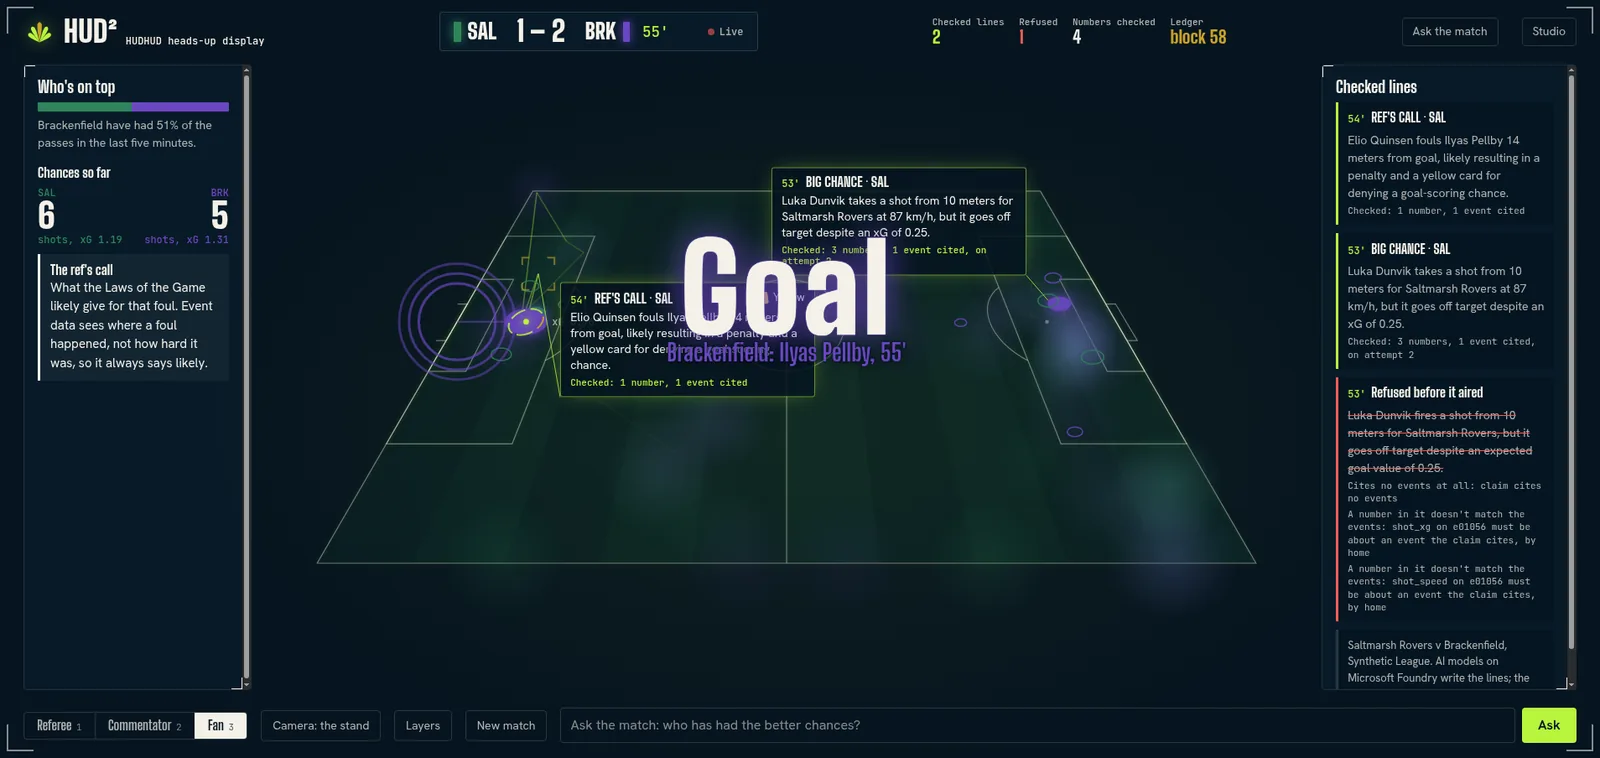
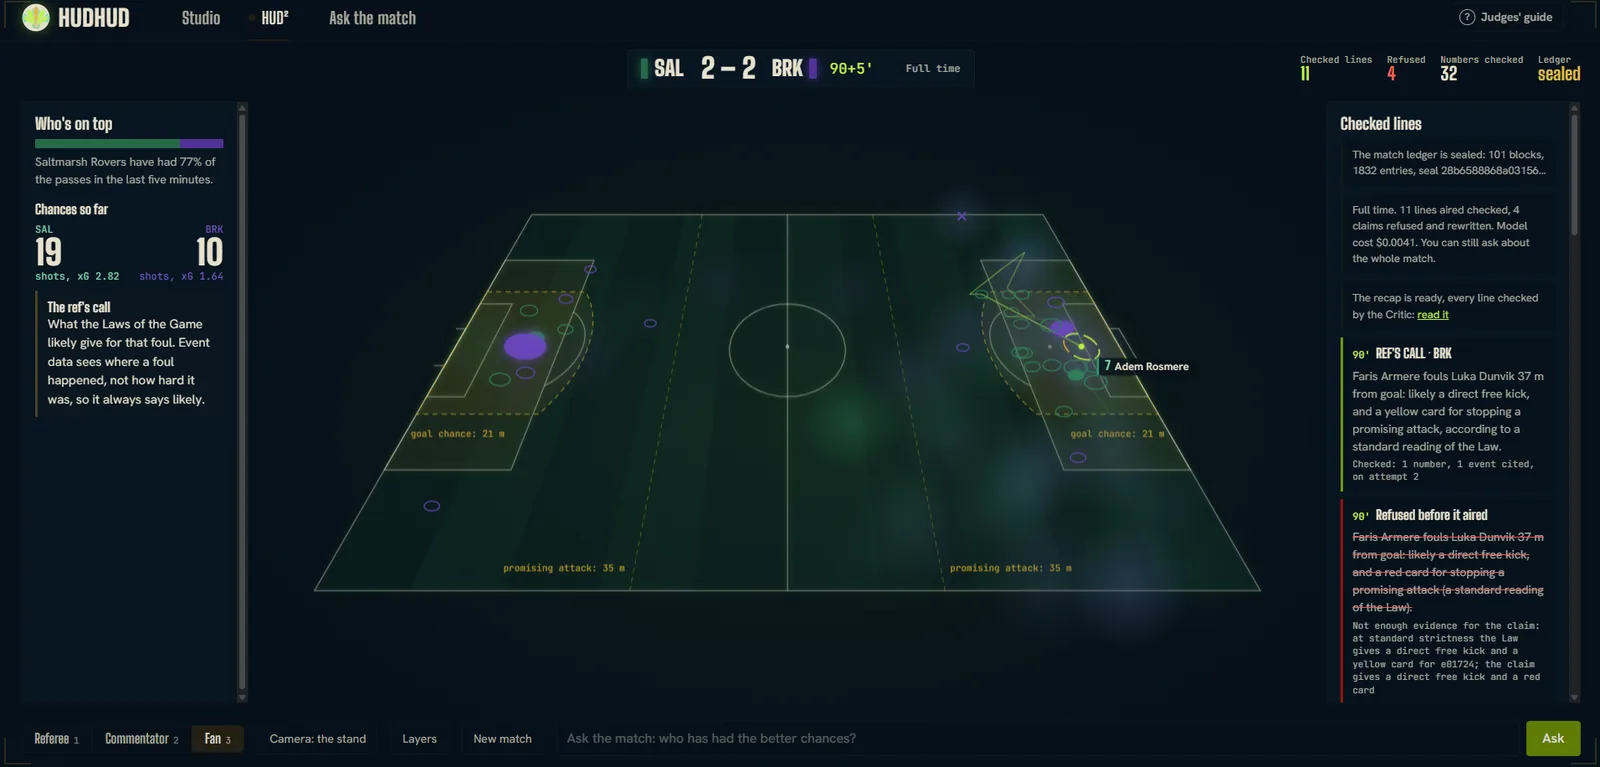
feat(studio): the match ledger is its own step in the judges' guide — and every screen retaken
The ledger shows in all three rooms (under the studio's score, in HUD²'s meter, beside every
answer in Ask the match), but nothing sent anyone to it, and its best moment, the tamper test,
waits behind a button nobody was told to press. The guide now has four steps, the ledger second:
at full time, Verify in this browser, then Try changing one line, and the browser finds the block.
The studio's opening slate names the ledger beside the Critic.

- Screens retaken on the live studio with the rooms' bar and mark v3 (the last set was from
  October 20, before both): the studio at 59', the ledger verified at full time, every HUD² lens,
  the view from above, and Ask the match; a new one shows HUD²'s layers. The phone shot stays.
- Every alt text rewritten to what its picture now shows, at its real size
- The guide's panel scrolls on a short screen (HUD² doesn't scroll the page)

diff --git a/site/index.html b/site/index.html
@@ -1422,7 +1422,7 @@
           <button type="button" data-demo-lens="fan" aria-pressed="false">The fan</button>
         </div>
         <div class="demo-frame demo-wide" data-demo-frame>
-          <img src="assets/screens/hud-commentator.webp" alt="HUD² through the commentator's lens: the pitch in perspective, two checked lines pinned where they happened, a refused draft struck in red, the last five minutes in numbers." loading="lazy" width="1600" height="758">
+          <img src="assets/screens/hud-commentator.webp" alt="HUD² through the commentator's lens at full time: the pitch in perspective with every shot and the ball's last path, the last five minutes in numbers, and the checked lines: a referee's call that aired on its second attempt, the draft before it struck in red because the Law gives a yellow card, not a red." loading="lazy" width="1600" height="771">
           <button class="demo-start" type="button" data-demo-start>Play the recorded match</button>
         </div>
         <p class="demo-note">A match recorded from the live studio on October 20, replayed by the studio's own code. The lines, the refusals and the ledger are real; the studio itself is open to the judges only.</p>
@@ -1436,9 +1436,10 @@
 
       <h2 class="section-title" data-reveal>Every lens, as it looks</h2>
       <div class="shots" data-reveal>
-        <figure><img src="assets/screens/hud-referee.webp" alt="The referee's lens at 54': the penalty's likely call pinned at the foul with a yellow card, the goal-chance zones shaded at both ends." loading="lazy" width="1600" height="758"><figcaption>The referee, at the penalty: the call pinned at the foul, 14 m out, inside the area.</figcaption></figure>
-        <figure><img src="assets/screens/hud-fan.webp" alt="The fan's lens: who's on top, the chances so far, and a plain-words explainer for the moment that just happened." loading="lazy" width="1600" height="758"><figcaption>The fan: who's on top, and plain words for what just happened.</figcaption></figure>
-        <figure><img src="assets/screens/hud-above.webp" alt="The commentator's lens from above, like a tactics board, with the goals pinned at both ends." loading="lazy" width="1600" height="758"><figcaption>From above, like a tactics board.</figcaption></figure>
+        <figure><img src="assets/screens/hud-referee.webp" alt="The referee's lens at full time: both yellow cards in the discipline panel, the goal-chance and promising-attack zones shaded at both ends, and the 90th-minute call checked against the Law, a red card refused." loading="lazy" width="1600" height="769"><figcaption>The referee: every card, the zones a call is read against, and a red card the Law didn't give, refused.</figcaption></figure>
+        <figure><img src="assets/screens/hud-fan.webp" alt="The fan's lens at full time: who's on top, the chances so far, 19 shots to 10, and plain words for what a referee's call means." loading="lazy" width="1600" height="767"><figcaption>The fan: who's on top, and plain words for what just happened.</figcaption></figure>
+        <figure><img src="assets/screens/hud-above.webp" alt="The commentator's lens from above, like a tactics board: every shot at both ends, sized by chance quality, and the ball's last path." loading="lazy" width="1600" height="771"><figcaption>From above, like a tactics board.</figcaption></figure>
+        <figure><img src="assets/screens/hud-layers.webp" alt="HUD²'s layers, open over the commentator's lens: twelve switches, from the ball and recent passes to pressing, the referee's zones and the Critic's refusals, each kept for next time." loading="lazy" width="1600" height="769"><figcaption>Layers: each viewer's own choice, kept for next time.</figcaption></figure>
         <figure class="phone"><img src="assets/screens/hud-phone.webp" alt="HUD² on a phone: the pitch, one compact pin, and the checked lines below." loading="lazy" width="390" height="844"><figcaption>On a phone.</figcaption></figure>
       </div>
 
@@ -1462,7 +1463,7 @@
 
       <div class="demo" data-demo="ask" data-reveal>
         <div class="demo-frame demo-wide" data-demo-frame>
-          <img src="assets/screens/ask.webp" alt="Ask the match: a conversation with the match, each answer checked by the Critic, sealed in a block and verified in the browser; a question about odds gets fixed words that steer away from betting." loading="lazy" width="1600" height="758">
+          <img src="assets/screens/ask.webp" alt="Ask the match at full time: a question about one player answered with eight numbers, each matched to the events by the Critic, the facts code counted listed with their event IDs, and the answer sealed in block 101 and verified in the browser; a second answer, about the biggest chance, below." loading="lazy" width="1600" height="766">
           <button class="demo-start" type="button" data-demo-start>Ask the recorded match</button>
         </div>
         <p class="demo-note">The recorded match answers the ten questions asked of it in the live studio, with their real answers and proofs; tap one, then verify it. The live studio answers anything.</p>
@@ -1552,12 +1553,12 @@
         <a class="button button-quiet" href="demo/ask.html?autostart=1" target="_blank" rel="noopener">Ask the recorded match</a>
       </div>
       <div class="shots shots-all" data-reveal>
-        <figure><img src="assets/screens/studio-live.webp" alt="The studio, live at 56': the score, the shot map, the match ledger growing a block a minute, checked lines on air, Ask the match, and the Critic's desk with a refused claim." loading="lazy" width="1600" height="758"><figcaption>The studio, live: lines on air with their receipts, the Critic's desk, the ledger growing.</figcaption></figure>
-        <figure><img src="assets/screens/studio-ledger.webp" alt="The match ledger at full time: 111 blocks in a chain, all green, verified in the browser." loading="lazy" width="1600" height="315"><figcaption>At full time, the ledger verified in the browser: every block green.</figcaption></figure>
-        <figure><img src="assets/screens/hud-referee.webp" alt="HUD² through the referee's lens, at the penalty." loading="lazy" width="1600" height="758"><figcaption>HUD², the referee's lens.</figcaption></figure>
-        <figure><img src="assets/screens/hud-commentator.webp" alt="HUD² through the commentator's lens, with a refusal pinned where it was aimed." loading="lazy" width="1600" height="758"><figcaption>HUD², the commentator's lens.</figcaption></figure>
-        <figure><img src="assets/screens/hud-fan.webp" alt="HUD² through the fan's lens." loading="lazy" width="1600" height="758"><figcaption>HUD², the fan's lens.</figcaption></figure>
-        <figure><img src="assets/screens/ask.webp" alt="Ask the match, a conversation with the match." loading="lazy" width="1600" height="758"><figcaption>Ask the match: each answer checked, sealed and verified.</figcaption></figure>
+        <figure><img src="assets/screens/studio-live.webp" alt="The studio, live at 59': the score, the shot map, the match ledger growing a block a minute, checked lines on air with their players and event IDs, one aired on its second attempt, and Ask the match with questions to try." loading="lazy" width="1600" height="774"><figcaption>The studio, live: lines on air with their receipts, the ledger growing a block a minute.</figcaption></figure>
+        <figure><img src="assets/screens/studio-ledger.webp" alt="The match ledger at full time: 101 blocks in a chain, all green, verified in the browser, every hash recomputed and nothing changed." loading="lazy" width="1600" height="391"><figcaption>At full time, the ledger verified in the browser: every block green.</figcaption></figure>
+        <figure><img src="assets/screens/hud-referee.webp" alt="HUD² through the referee's lens, at full time." loading="lazy" width="1600" height="769"><figcaption>HUD², the referee's lens.</figcaption></figure>
+        <figure><img src="assets/screens/hud-commentator.webp" alt="HUD² through the commentator's lens, a refused call struck in red beside the one that aired." loading="lazy" width="1600" height="771"><figcaption>HUD², the commentator's lens.</figcaption></figure>
+        <figure><img src="assets/screens/hud-fan.webp" alt="HUD² through the fan's lens." loading="lazy" width="1600" height="767"><figcaption>HUD², the fan's lens.</figcaption></figure>
+        <figure><img src="assets/screens/ask.webp" alt="Ask the match, a conversation with the match." loading="lazy" width="1600" height="766"><figcaption>Ask the match: each answer checked, sealed and verified.</figcaption></figure>
       </div>
     </section>
 
@@ -1571,7 +1572,7 @@
 
       <div class="demo" data-demo="broadcast" data-reveal>
         <div class="demo-frame demo-wide" data-demo-frame>
-          <img src="assets/screens/studio-live.webp" alt="The program feed: a broadcast frame with the score bug and a checked line as a lower third, driven by the cue contract." loading="lazy" width="1600" height="758">
+          <img src="assets/screens/studio-live.webp" alt="The live studio at 59', whose checked lines drive the program feed." loading="lazy" width="1600" height="774">
           <button class="demo-start" type="button" data-demo-start>Play the program feed</button>
         </div>
         <p class="demo-note">A match recorded from the live studio, replayed by the studio's own stream. Play the take, or step line by line with Next line — the panel on the right is the JSON your system receives for every cue, live.</p>

diff --git a/site/demo/studio.html b/site/demo/studio.html
@@ -86,12 +86,13 @@
     <details class="topnav-guide" data-guide>
       <summary>Judges' guide</summary>
       <div class="topnav-panel">
-        <h2>Three rooms, one match</h2>
+        <h2>What to try first</h2>
         <p>The football is synthetic: invented clubs and players. Every line you see was checked by the Critic first.</p>
         <ol>
           <li><a href="studio.html">Studio</a>Press <b>Kick off</b>. Checked lines air in the feed with their evidence; claims the Critic refused land on its desk as red cards. Then take the narrator off air and watch the broadcast carry on.</li>
+          <li><a href="studio.html">The match ledger</a>In the studio, under the score, every event, line and refusal is sealed minute by minute into blocks chained by hashes. At full time press <b>Verify in this browser</b>, then <b>Try changing one line</b>: the browser finds the one block you changed.</li>
           <li><a href="hud.html">HUD²</a>Choose whose eyes: the referee's, the commentator's or the fan's. Every checked line is pinned where it happened. Keys 1 to 3 switch the lens, V the camera.</li>
-          <li><a href="ask.html">Ask the match</a>Open a match and ask who had the better chances. Code counts the numbers, the Critic checks the answer, and the ledger verifies in your browser.</li>
+          <li><a href="ask.html">Ask the match</a>Open a match and ask who had the better chances. Code counts the numbers, the Critic checks the answer, and each answer is sealed in the ledger with a proof your browser checks.</li>
         </ol>
         <p class="topnav-more"><a href="https://hudhud.com.pk/">The showcase site</a><a href="https://youtu.be/a9_2oL63PBw">The 101-second video</a></p>
       </div>
@@ -196,7 +197,7 @@
       <div class="slate-copy">
         <h1 id="slate-title" class="slate-word" data-product></h1>
         <p class="slate-promise">Every call comes with its evidence.</p>
-        <p class="slate-how">Five AI agents commentate a synthetic match. Before a line airs, the Critic recomputes every number from the match events and refuses what it can't prove. Pick a match and kick off.</p>
+        <p class="slate-how">Five AI agents commentate a synthetic match. Before a line airs, the Critic recomputes every number from the match events and refuses what it can't prove. Every line is then sealed into the match ledger, which your browser can verify. Pick a match and kick off.</p>
         <details class="slate-limits">
           <summary>What this data can't tell you</summary>
           <ul>

diff --git a/apps/api/src/court/studio/index.html b/apps/api/src/court/studio/index.html
@@ -86,12 +86,13 @@
     <details class="topnav-guide" data-guide>
       <summary>Judges' guide</summary>
       <div class="topnav-panel">
-        <h2>Three rooms, one match</h2>
+        <h2>What to try first</h2>
         <p>The football is synthetic: invented clubs and players. Every line you see was checked by the Critic first.</p>
         <ol>
           <li><a href="/">Studio</a>Press <b>Kick off</b>. Checked lines air in the feed with their evidence; claims the Critic refused land on its desk as red cards. Then take the narrator off air and watch the broadcast carry on.</li>
+          <li><a href="/">The match ledger</a>In the studio, under the score, every event, line and refusal is sealed minute by minute into blocks chained by hashes. At full time press <b>Verify in this browser</b>, then <b>Try changing one line</b>: the browser finds the one block you changed.</li>
           <li><a href="/hud">HUD²</a>Choose whose eyes: the referee's, the commentator's or the fan's. Every checked line is pinned where it happened. Keys 1 to 3 switch the lens, V the camera.</li>
-          <li><a href="/ask">Ask the match</a>Open a match and ask who had the better chances. Code counts the numbers, the Critic checks the answer, and the ledger verifies in your browser.</li>
+          <li><a href="/ask">Ask the match</a>Open a match and ask who had the better chances. Code counts the numbers, the Critic checks the answer, and each answer is sealed in the ledger with a proof your browser checks.</li>
         </ol>
         <p class="topnav-more"><a href="https://hudhud.com.pk/">The showcase site</a><a href="https://youtu.be/a9_2oL63PBw">The 101-second video</a></p>
       </div>
@@ -196,7 +197,7 @@
       <div class="slate-copy">
         <h1 id="slate-title" class="slate-word" data-product></h1>
         <p class="slate-promise">Every call comes with its evidence.</p>
-        <p class="slate-how">Five AI agents commentate a synthetic match. Before a line airs, the Critic recomputes every number from the match events and refuses what it can't prove. Pick a match and kick off.</p>
+        <p class="slate-how">Five AI agents commentate a synthetic match. Before a line airs, the Critic recomputes every number from the match events and refuses what it can't prove. Every line is then sealed into the match ledger, which your browser can verify. Pick a match and kick off.</p>
         <details class="slate-limits">
           <summary>What this data can't tell you</summary>
           <ul>

diff --git a/site/demo/ask.html b/site/demo/ask.html
@@ -86,12 +86,13 @@
     <details class="topnav-guide" data-guide>
       <summary>Judges' guide</summary>
       <div class="topnav-panel">
-        <h2>Three rooms, one match</h2>
+        <h2>What to try first</h2>
         <p>The football is synthetic: invented clubs and players. Every line you see was checked by the Critic first.</p>
         <ol>
           <li><a href="studio.html">Studio</a>Press <b>Kick off</b>. Checked lines air in the feed with their evidence; claims the Critic refused land on its desk as red cards. Then take the narrator off air and watch the broadcast carry on.</li>
+          <li><a href="studio.html">The match ledger</a>In the studio, under the score, every event, line and refusal is sealed minute by minute into blocks chained by hashes. At full time press <b>Verify in this browser</b>, then <b>Try changing one line</b>: the browser finds the one block you changed.</li>
           <li><a href="hud.html">HUD²</a>Choose whose eyes: the referee's, the commentator's or the fan's. Every checked line is pinned where it happened. Keys 1 to 3 switch the lens, V the camera.</li>
-          <li><a href="ask.html">Ask the match</a>Open a match and ask who had the better chances. Code counts the numbers, the Critic checks the answer, and the ledger verifies in your browser.</li>
+          <li><a href="ask.html">Ask the match</a>Open a match and ask who had the better chances. Code counts the numbers, the Critic checks the answer, and each answer is sealed in the ledger with a proof your browser checks.</li>
         </ol>
         <p class="topnav-more"><a href="https://hudhud.com.pk/">The showcase site</a><a href="https://youtu.be/a9_2oL63PBw">The 101-second video</a></p>
       </div>

diff --git a/site/demo/hud.html b/site/demo/hud.html
@@ -86,12 +86,13 @@
     <details class="topnav-guide" data-guide>
       <summary>Judges' guide</summary>
       <div class="topnav-panel">
-        <h2>Three rooms, one match</h2>
+        <h2>What to try first</h2>
         <p>The football is synthetic: invented clubs and players. Every line you see was checked by the Critic first.</p>
         <ol>
           <li><a href="studio.html">Studio</a>Press <b>Kick off</b>. Checked lines air in the feed with their evidence; claims the Critic refused land on its desk as red cards. Then take the narrator off air and watch the broadcast carry on.</li>
+          <li><a href="studio.html">The match ledger</a>In the studio, under the score, every event, line and refusal is sealed minute by minute into blocks chained by hashes. At full time press <b>Verify in this browser</b>, then <b>Try changing one line</b>: the browser finds the one block you changed.</li>
           <li><a href="hud.html">HUD²</a>Choose whose eyes: the referee's, the commentator's or the fan's. Every checked line is pinned where it happened. Keys 1 to 3 switch the lens, V the camera.</li>
-          <li><a href="ask.html">Ask the match</a>Open a match and ask who had the better chances. Code counts the numbers, the Critic checks the answer, and the ledger verifies in your browser.</li>
+          <li><a href="ask.html">Ask the match</a>Open a match and ask who had the better chances. Code counts the numbers, the Critic checks the answer, and each answer is sealed in the ledger with a proof your browser checks.</li>
         </ol>
         <p class="topnav-more"><a href="https://hudhud.com.pk/">The showcase site</a><a href="https://youtu.be/a9_2oL63PBw">The 101-second video</a></p>
       </div>

diff --git a/apps/api/src/court/studio/ask.html b/apps/api/src/court/studio/ask.html
@@ -86,12 +86,13 @@
     <details class="topnav-guide" data-guide>
       <summary>Judges' guide</summary>
       <div class="topnav-panel">
-        <h2>Three rooms, one match</h2>
+        <h2>What to try first</h2>
         <p>The football is synthetic: invented clubs and players. Every line you see was checked by the Critic first.</p>
         <ol>
           <li><a href="/">Studio</a>Press <b>Kick off</b>. Checked lines air in the feed with their evidence; claims the Critic refused land on its desk as red cards. Then take the narrator off air and watch the broadcast carry on.</li>
+          <li><a href="/">The match ledger</a>In the studio, under the score, every event, line and refusal is sealed minute by minute into blocks chained by hashes. At full time press <b>Verify in this browser</b>, then <b>Try changing one line</b>: the browser finds the one block you changed.</li>
           <li><a href="/hud">HUD²</a>Choose whose eyes: the referee's, the commentator's or the fan's. Every checked line is pinned where it happened. Keys 1 to 3 switch the lens, V the camera.</li>
-          <li><a href="/ask">Ask the match</a>Open a match and ask who had the better chances. Code counts the numbers, the Critic checks the answer, and the ledger verifies in your browser.</li>
+          <li><a href="/ask">Ask the match</a>Open a match and ask who had the better chances. Code counts the numbers, the Critic checks the answer, and each answer is sealed in the ledger with a proof your browser checks.</li>
         </ol>
         <p class="topnav-more"><a href="https://hudhud.com.pk/">The showcase site</a><a href="https://youtu.be/a9_2oL63PBw">The 101-second video</a></p>
       </div>

diff --git a/apps/api/src/court/studio/hud.html b/apps/api/src/court/studio/hud.html
@@ -86,12 +86,13 @@
     <details class="topnav-guide" data-guide>
       <summary>Judges' guide</summary>
       <div class="topnav-panel">
-        <h2>Three rooms, one match</h2>
+        <h2>What to try first</h2>
         <p>The football is synthetic: invented clubs and players. Every line you see was checked by the Critic first.</p>
         <ol>
           <li><a href="/">Studio</a>Press <b>Kick off</b>. Checked lines air in the feed with their evidence; claims the Critic refused land on its desk as red cards. Then take the narrator off air and watch the broadcast carry on.</li>
+          <li><a href="/">The match ledger</a>In the studio, under the score, every event, line and refusal is sealed minute by minute into blocks chained by hashes. At full time press <b>Verify in this browser</b>, then <b>Try changing one line</b>: the browser finds the one block you changed.</li>
           <li><a href="/hud">HUD²</a>Choose whose eyes: the referee's, the commentator's or the fan's. Every checked line is pinned where it happened. Keys 1 to 3 switch the lens, V the camera.</li>
-          <li><a href="/ask">Ask the match</a>Open a match and ask who had the better chances. Code counts the numbers, the Critic checks the answer, and the ledger verifies in your browser.</li>
+          <li><a href="/ask">Ask the match</a>Open a match and ask who had the better chances. Code counts the numbers, the Critic checks the answer, and each answer is sealed in the ledger with a proof your browser checks.</li>
         </ol>
         <p class="topnav-more"><a href="https://hudhud.com.pk/">The showcase site</a><a href="https://youtu.be/a9_2oL63PBw">The 101-second video</a></p>
       </div>

diff --git a/apps/api/src/court/studio/nav.css b/apps/api/src/court/studio/nav.css
@@ -46,6 +46,7 @@
 .topnav-guide[data-fresh] summary { color: var(--lime); border-color: var(--lime); box-shadow: 0 0 0 3px rgba(184, 245, 61, 0.14), 0 0 14px rgba(184, 245, 61, 0.3); }
 .topnav-panel {
   position: absolute; right: 0; top: calc(100% + 0.6rem); width: min(27rem, calc(100vw - 2rem));
+  max-height: calc(100vh - 5rem); overflow-y: auto; /* HUD² doesn't scroll: a short screen scrolls the guide */
   padding: 1.1rem 1.2rem 1rem; background: var(--navy-raised); color: var(--chalk);
   border: 1px solid var(--chalk-faint); border-radius: 6px; box-shadow: 0 18px 40px rgba(0, 0, 0, 0.5);
   font: 400 0.9375rem / 1.45 var(--body); text-align: left;

diff --git a/site/demo/nav.css b/site/demo/nav.css
@@ -46,6 +46,7 @@
 .topnav-guide[data-fresh] summary { color: var(--lime); border-color: var(--lime); box-shadow: 0 0 0 3px rgba(184, 245, 61, 0.14), 0 0 14px rgba(184, 245, 61, 0.3); }
 .topnav-panel {
   position: absolute; right: 0; top: calc(100% + 0.6rem); width: min(27rem, calc(100vw - 2rem));
+  max-height: calc(100vh - 5rem); overflow-y: auto; /* HUD² doesn't scroll: a short screen scrolls the guide */
   padding: 1.1rem 1.2rem 1rem; background: var(--navy-raised); color: var(--chalk);
   border: 1px solid var(--chalk-faint); border-radius: 6px; box-shadow: 0 18px 40px rgba(0, 0, 0, 0.5);
   font: 400 0.9375rem / 1.45 var(--body); text-align: left;

diff --git a/README.md b/README.md
@@ -3,7 +3,7 @@
 > Microsoft × Premier League — **Inside the Game: Developer Hackathon** (Oct 2026)
 > AI match intelligence on synthetic football-realistic data. **Solo build.**
 
-![HUD², the commentator's lens: a draft that cites no events is refused on screen with its reasons, and the rewrite airs, checked: 3 numbers, 1 event cited, on attempt 2](site/assets/screens/hud-commentator.webp)
+![HUD², the commentator's lens at full time: a draft that called a red card is refused on screen with its reason (at standard strictness the Law gives a yellow), and the rewrite airs, checked: 1 number, 1 event cited, on attempt 2](site/assets/screens/hud-commentator.webp)
 
 *The Critic at work, live on Microsoft Foundry: a draft cites no events and its numbers don't match, so it is refused on screen with the reasons, and the rewrite airs with its evidence (HUD², the commentator's lens).*
 
